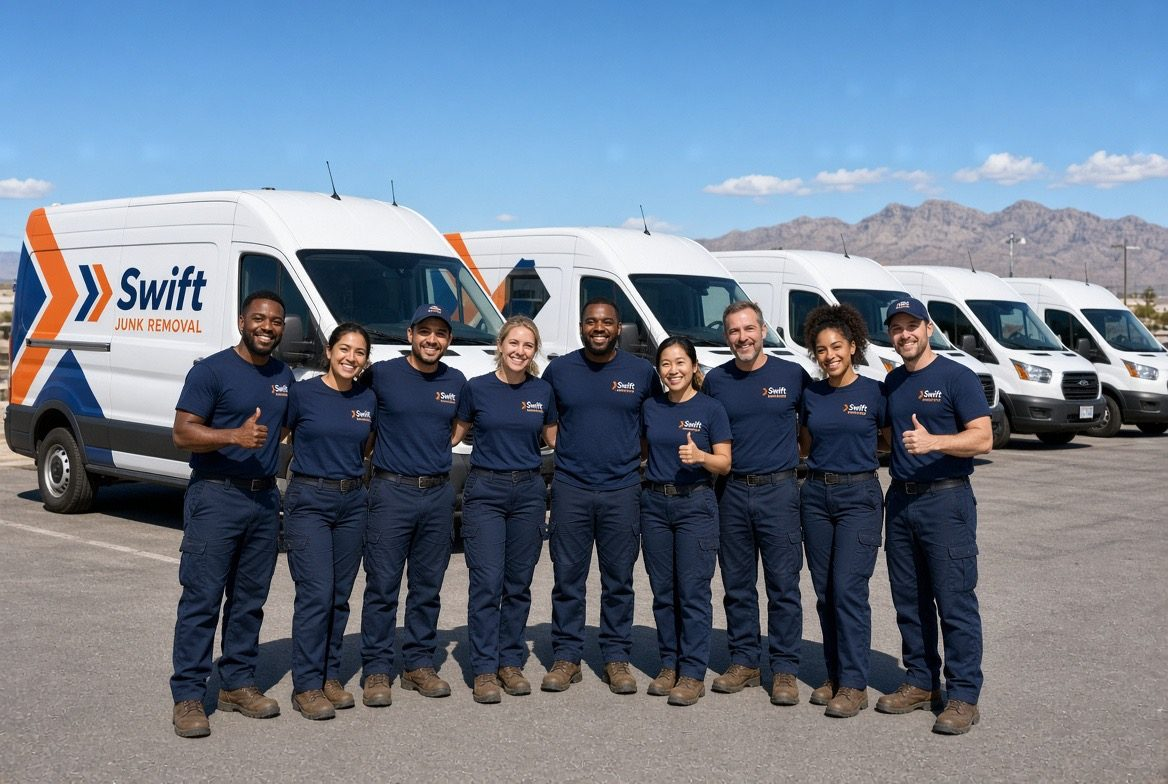
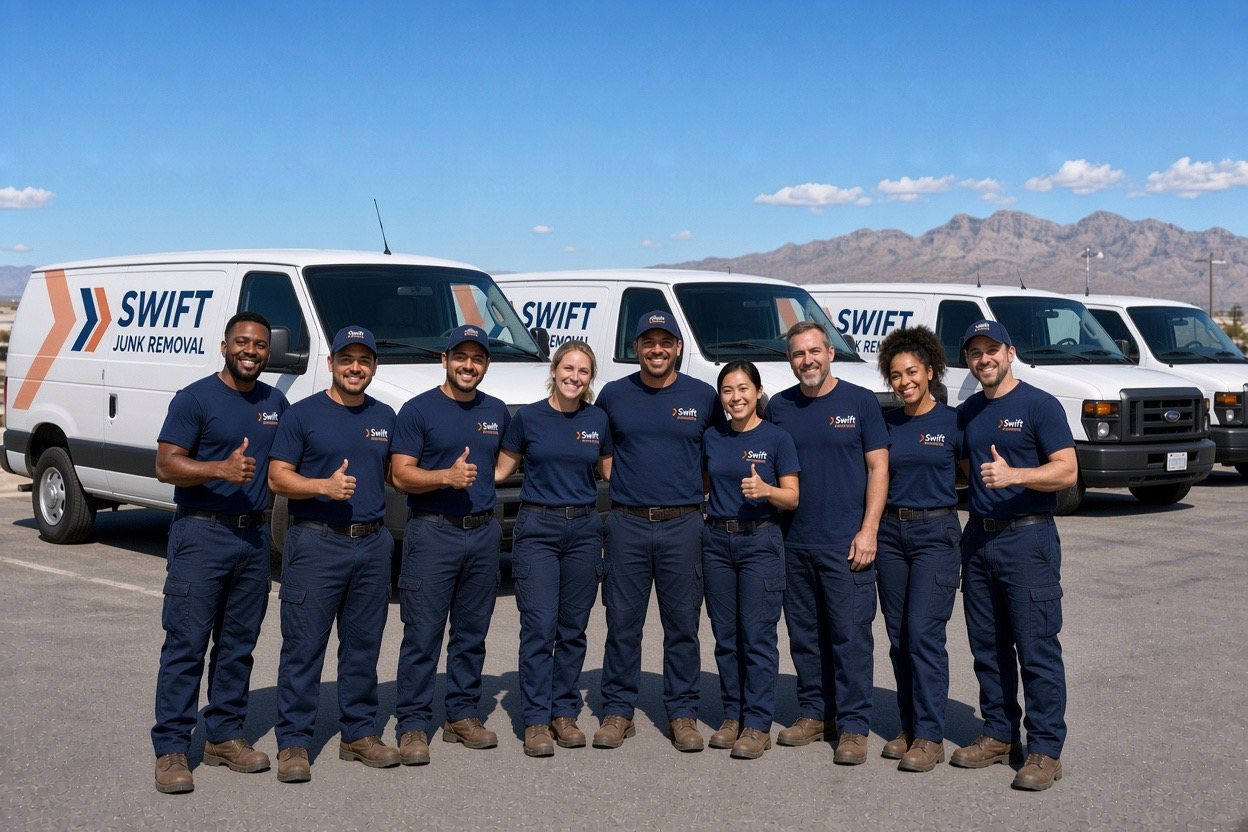
New full-crew group photo in the hero
Claude-Session: https://claude.ai/code/session_0185wJRBF8YacZ9PDYWPh2it

diff --git a/junk-removal-las-vegas-nv/index.html b/junk-removal-las-vegas-nv/index.html
@@ -74,7 +74,7 @@
       <h2>A valley-wide crew</h2><p>Las Vegas is spread out, and a job in the northwest is a different drive from one downtown. We plan each visit around where you are, so you get a straight answer about timing when you call.</p><h2>Homes, rentals and businesses</h2><p>Common jobs include single-family garages, apartment and condo clear-outs, rental turnovers, office furniture and retail back rooms. If it needs to leave the property, tell us what it is and we will take care of it.</p>
     </div>
     <aside class="pg-side">
-        <figure class="pg-photo"><img src="/img/crew.jpg" width="1168" height="784" alt="The Swift Junk Removal crew in navy uniforms standing in front of a row of Swift vans" fetchpriority="high"></figure>
+        <figure class="pg-photo"><img src="/img/crew.jpg" width="1248" height="832" alt="The Swift Junk Removal crew in navy uniforms standing in front of a row of Swift vans" fetchpriority="high"></figure>
         <div class="panel"><h2>Neighborhoods we serve in Las Vegas</h2><ul class="ticks"><li>Downtown and the Arts District</li><li>Centennial Hills</li><li>Skye Canyon</li><li>The Southwest valley</li><li>Providence</li><li>Lone Mountain</li></ul></div>
       </aside>
   </div>

diff --git a/index.html b/index.html
@@ -67,7 +67,7 @@
   </div>
   <div class="hero-media" id="heroMedia">
     <div class="frame">
-      <img src="img/crew.jpg" width="1168" height="784" alt="The Swift Junk Removal crew in navy uniforms standing in front of a row of Swift vans with the Las Vegas mountains behind them" fetchpriority="high">
+      <img src="img/crew.jpg" width="1248" height="832" alt="The Swift Junk Removal crew in navy uniforms standing in front of a row of Swift vans with the Las Vegas mountains behind them" fetchpriority="high">
     </div>
   </div>
 </section>

diff --git a/css/v9.css b/css/v9.css
@@ -459,3 +459,6 @@ html.intro-on{overflow:hidden}
 @media (max-width:520px){
   .foot-cols{grid-template-columns:1fr 1fr;gap:24px}
 }
+
+/* full crew photo: keep the whole group in frame on phones */
+@media (max-width:720px){.hero-media{height:auto;min-height:0;aspect-ratio:3/2}.hero-media img{object-position:50% 50%}}
